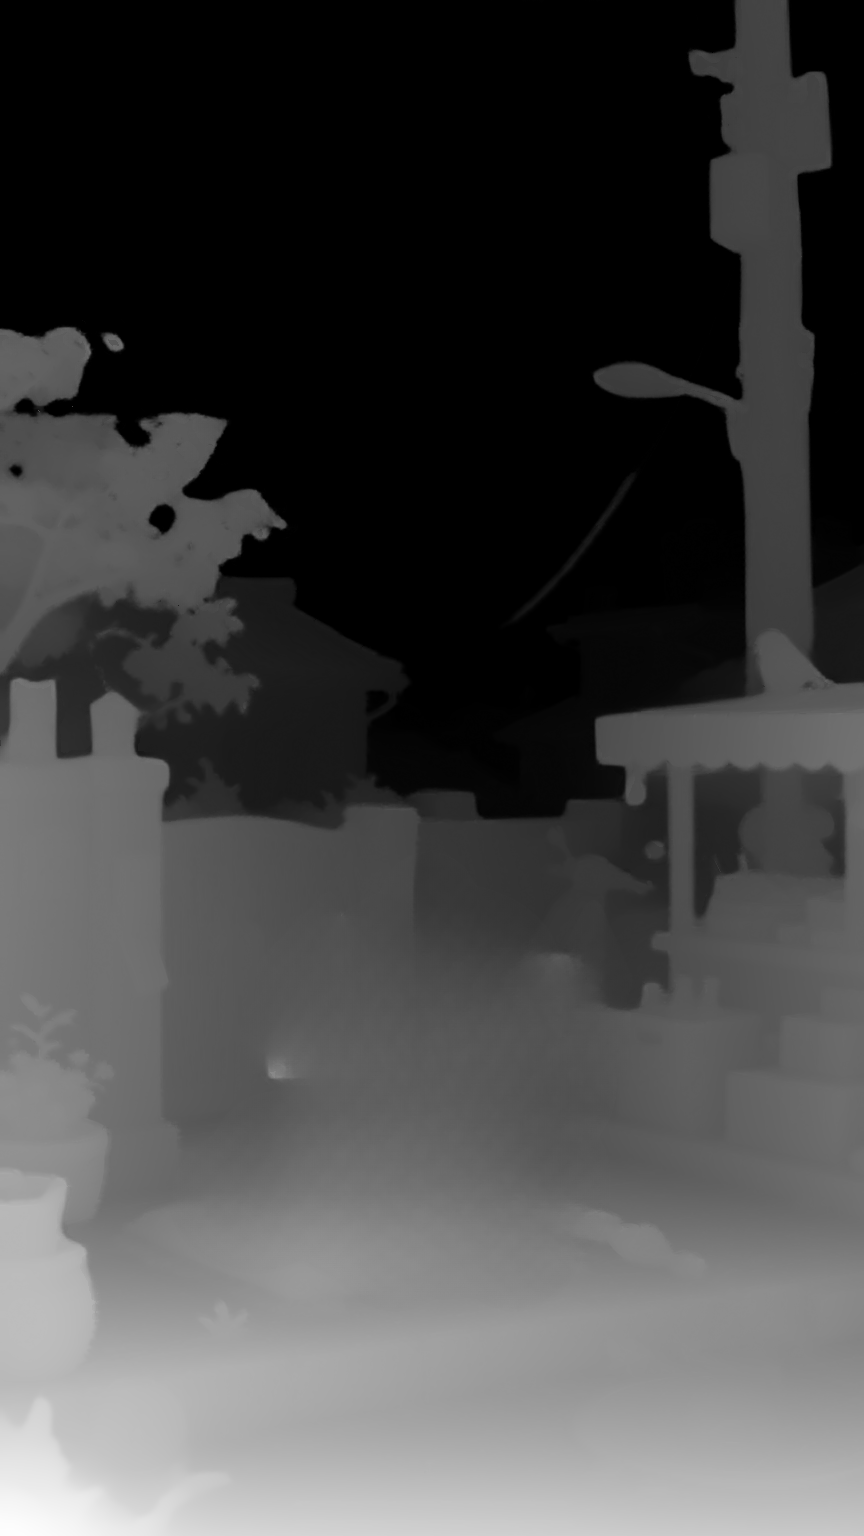
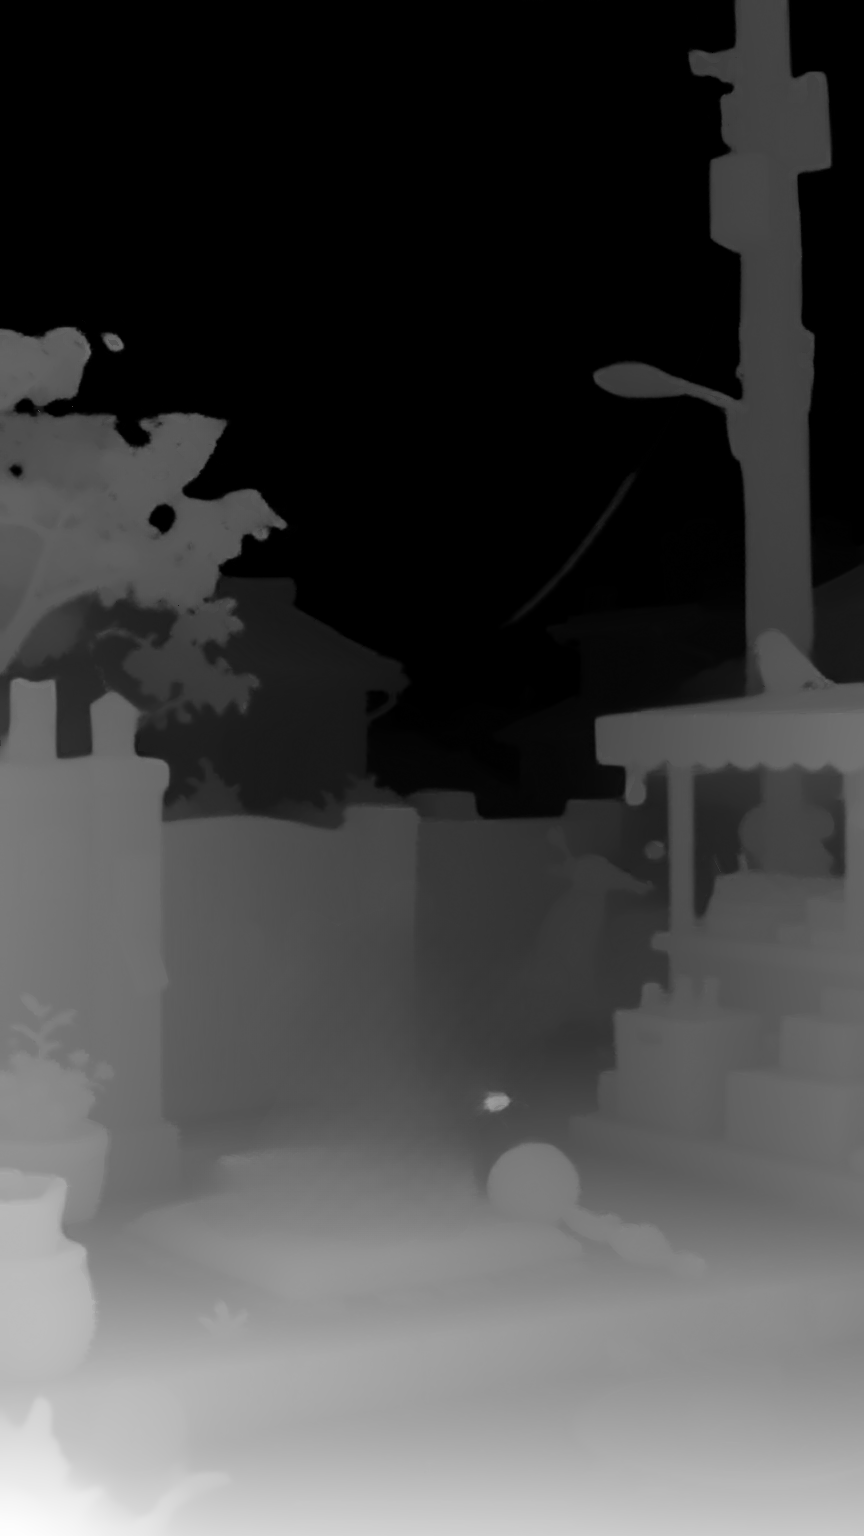
lab2: update with the new assets (fresh mask + Large depth + base.png back)
lab2 stays the ORIGINAL v2 renderer, now fed the refreshed inputs: codex cat-cutout
mask, Depth Anything Large, and the clean cat-free back plate (base.png) instead of
LaMa. Bump cache-buster to base3 so phones reload. (lab1 = v3, lab2 = v2; both on the
new assets so you can compare the renderer, not the inputs.)

Changed region(s): [[0.5312, 0.625, 0.7188, 0.7812], [0.3125, 0.6875, 0.3438, 0.7188]]

diff --git a/index.html b/index.html
@@ -11,7 +11,7 @@
     <meta name="apple-mobile-web-app-title" content="Cat Lock" />
     <meta name="apple-mobile-web-app-status-bar-style" content="black-translucent" />
     <link rel="manifest" href="./manifest.webmanifest" />
-    <link rel="stylesheet" href="./style.css?v=mesh-35" />
+    <link rel="stylesheet" href="./style.css?v=mesh-36" />
     <title>Cat Depth Lock</title>
     <script type="importmap">
       {
@@ -55,6 +55,6 @@
     </main>
 
     <script src="https://unpkg.com/lucide@0.468.0/dist/umd/lucide.min.js" defer></script>
-    <script type="module" src="./app.js?v=mesh-35"></script>
+    <script type="module" src="./app.js?v=mesh-36"></script>
   </body>
 </html>

diff --git a/app.js b/app.js
@@ -19,7 +19,7 @@ const sceneParam = new URLSearchParams(location.search).get("scene");
 const P3D = sceneParam ? `./assets/photo3d_${sceneParam}/` : "./assets/photo3d/";
 // asset cache-buster: bump on any rebuilt PNG so phones don't serve a stale image
 // (index.html's ?v= only refreshes the code, not these depth/colour PNGs).
-const AV = "?a=base2";
+const AV = "?a=base3";
 // core layers always present; protect.png (v2) / subject.png (v3 soft-LDI) are
 // loaded optionally and decide which front-layer path runs (see below).
 const ASSETS = {
